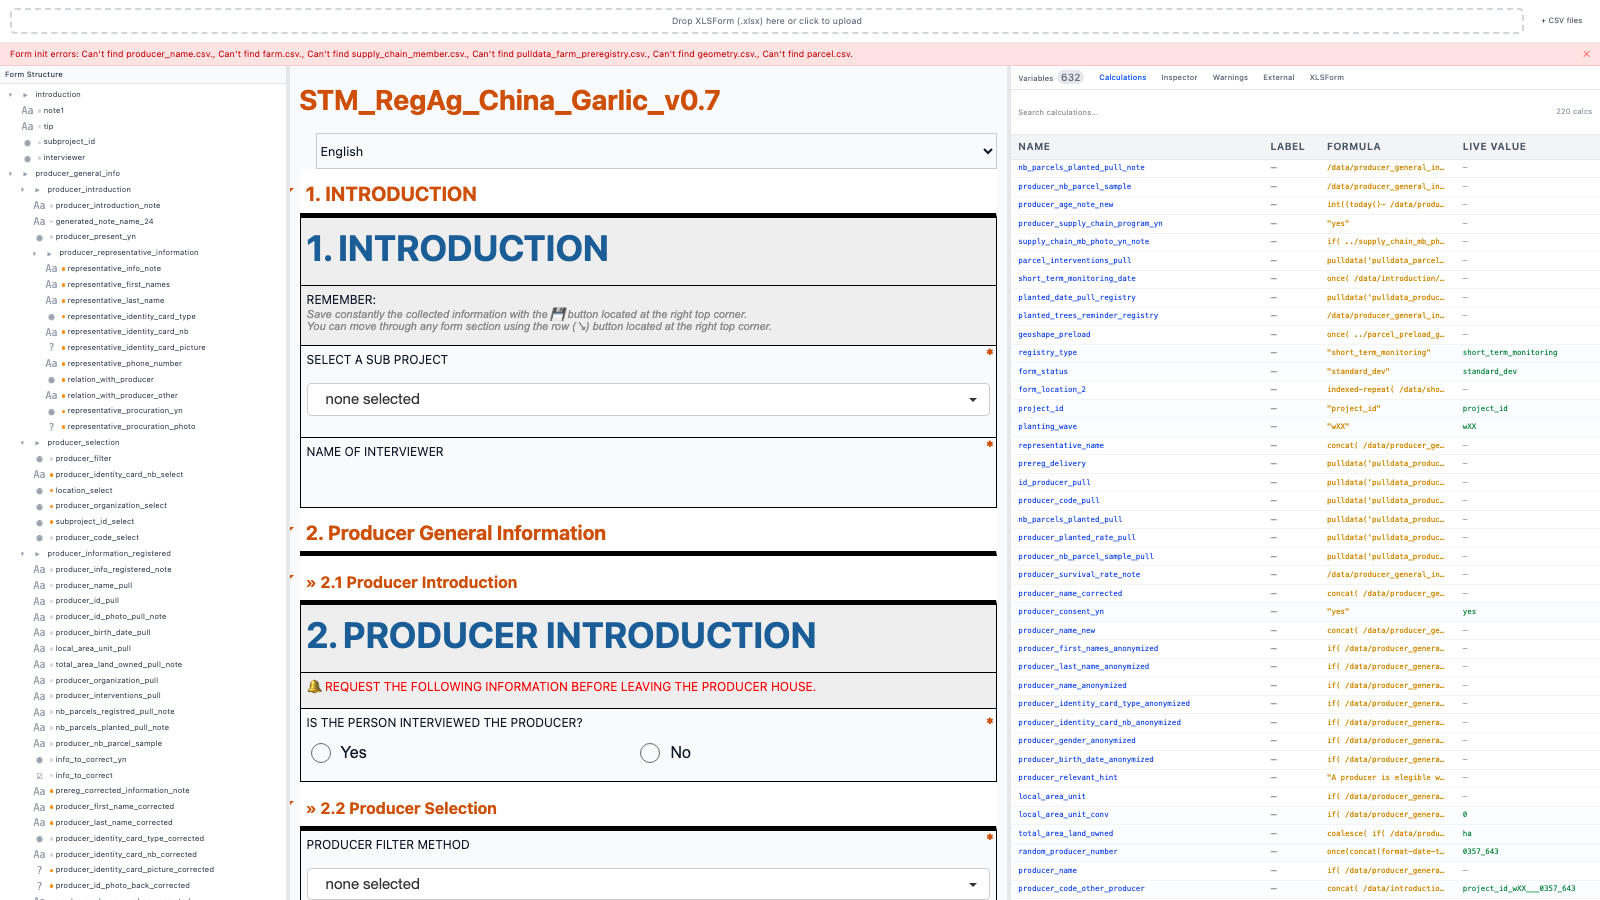
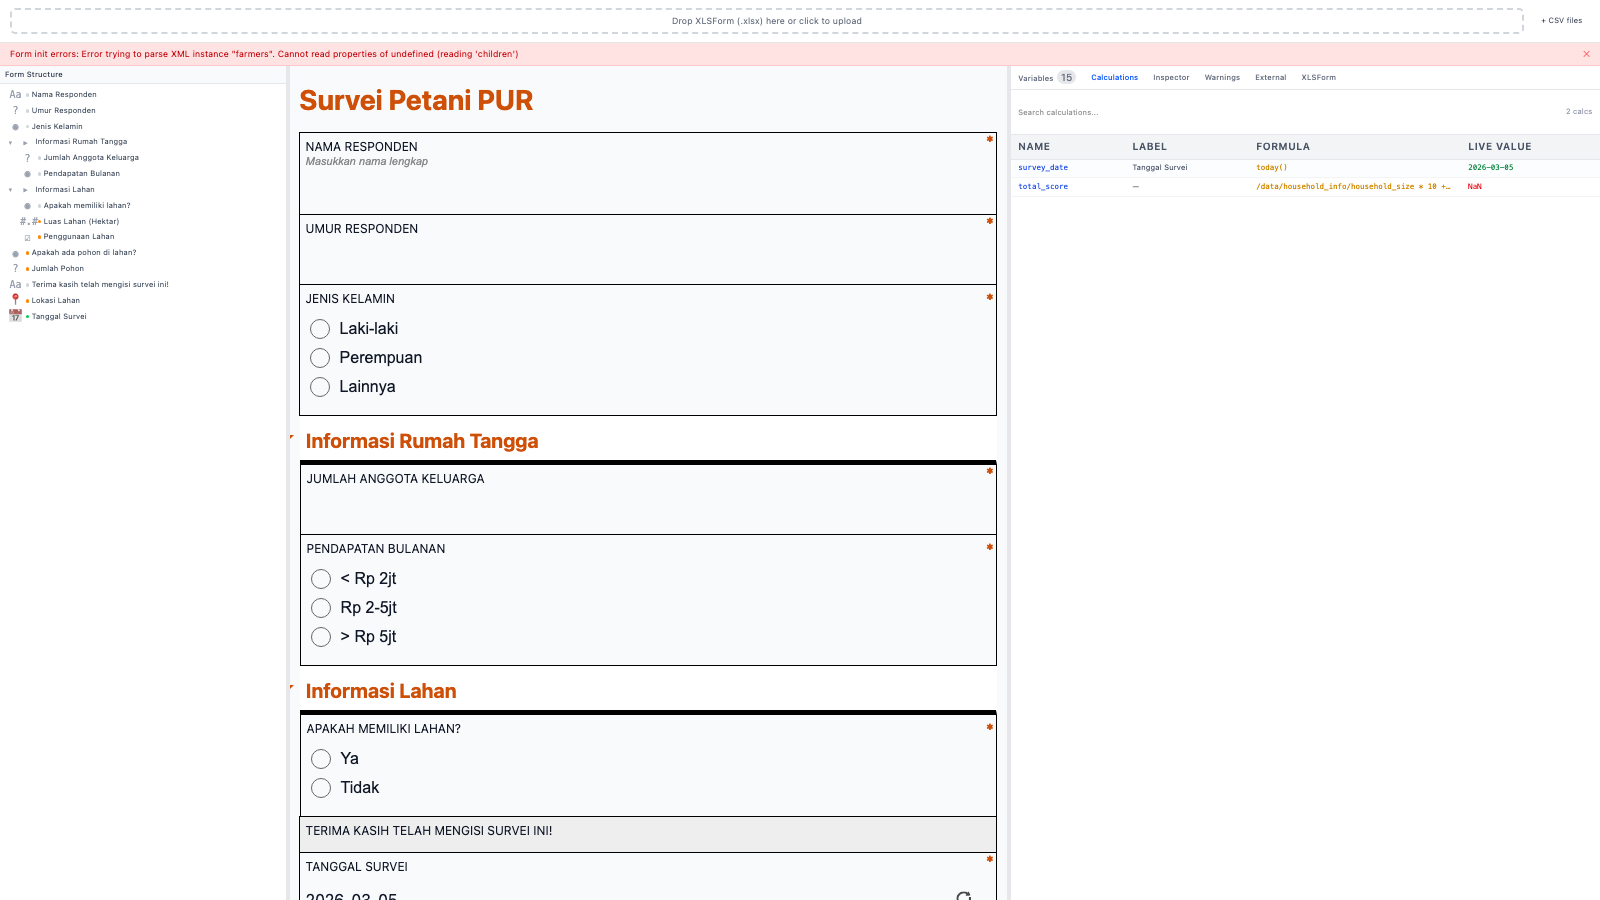
docs: PLANNING.md with geoshape roadmap, updated README with new screenshots + future improvements

diff --git a/README.md b/README.md
@@ -11,7 +11,7 @@
 
 - **Renders your form exactly as KoboToolbox would** — same engine (enketo-core), same logic
 - **Loads your pulldata CSVs** — see real values resolve in the form
-- **Live variable inspector** — all 600+ variables with current values, editable for testing
+- **Live variable inspector** — all form variables with current values, editable for testing
 - **Calculations panel** — every `calculate` field with its formula and live output
 - **Question inspector** — click any question to see its metadata, relevant/constraint evaluation, dependencies
 - **Form structure tree** — collapsible hierarchy of all groups, repeats, and questions with status indicators
@@ -22,17 +22,17 @@
 
 ## Screenshots
 
-### Form rendered alongside debug panels
+### Full overview — form rendered alongside debug panels
 ![Overview](docs/screenshot-overview.png)
 
 ### Calculations — live values for all calculated fields
 ![Calculations](docs/screenshot-calculations.png)
 
-### Inspector — click any question to inspect metadata, relevance, dependencies
+### Inspector — click any question to see metadata, relevance, and dependencies
 ![Inspector](docs/screenshot-inspector.png)
 
-### Variables — all form variables, editable for testing
-![Variables](docs/screenshot-variables.png)
+### Warnings — static analysis of your form logic
+![Warnings](docs/screenshot-warnings.png)
 
 ---
 
@@ -77,6 +77,8 @@ npm run dev
 ### 6. Open
 → **http://localhost:5173**
 
+> A sample form and pulldata CSV are in the `docs/` folder if you want to try it immediately.
+
 ---
 
 ## How to use
@@ -90,8 +92,8 @@ npm run dev
 
 | Panel | What it shows |
 |---|---|
-| **Left** | Form Structure — full group/repeat/question tree, click to scroll the form |
-| **Center** | Rendered form — interact with it as a field enumerator would |
+| **Left** | Form Structure — full group/repeat/question tree, click to scroll to any question |
+| **Center** | Rendered form — interact with it exactly as a field enumerator would |
 | **Right** | Debug tabs — Variables, Calculations, Inspector, Warnings, External Data, XLSForm source |
 
 All 3 panels are **resizable** — drag the dividers between them.
@@ -100,7 +102,7 @@ All 3 panels are **resizable** — drag the dividers between them.
 
 **Variables** — All form variables and their current values. Click any value cell to override it live (useful for testing skip logic without filling the whole form).
 
-**Calculations** — Every `calculate` field with its formula and live output. Auto-refreshes as you fill the form. Instantly see if a `pulldata()` is resolving correctly or returning NaN.
+**Calculations** — Every `calculate` field with its formula and live output. Auto-refreshes as you interact with the form. Instantly see if a `pulldata()` is resolving correctly or returning NaN.
 
 **Inspector** — Click any question in the form or the structure tree. Shows: type, label, relevant condition (✅ visible / 🚫 hidden), constraint (✅ passes / ❌ fails), current value, and which other fields depend on it.
 
@@ -123,9 +125,9 @@ All 3 panels are **resizable** — drag the dividers between them.
 
 1. Open **Inspector** tab
 2. Click the question that's not showing/hiding correctly
-3. The relevant expression is shown with live evaluation — ✅ means currently visible
+3. The relevant expression shows with live evaluation — ✅ means currently visible
 4. Click the dependency chips to jump to the fields it depends on
-5. Or use **Variables** to override a field value and watch the form re-evaluate live
+5. Use **Variables** to override a field value and watch the form re-evaluate instantly
 
 ---
 
@@ -143,9 +145,24 @@ cd app
 npm run dev -- --host
 ```
 
-Share your machine's IP: **http://192.168.x.x:5173**
+Share your machine's local IP: **http://192.168.x.x:5173**
 
 Teammates only need a browser — no installation required on their end.
+
+---
+
+## Planned improvements
+
+See [PLANNING.md](PLANNING.md) for full details.
+
+| Feature | Status |
+|---|---|
+| **Geoshape / map rendering** | Planned — next milestone. Currently shows a blank map; fix requires swapping Google Maps tiles for OpenStreetMap (no API key needed). See [PLANNING.md](PLANNING.md). |
+| Multi-language switcher | Backlog |
+| CSV data editor (inline) | Backlog |
+| Form submission XML export | Backlog |
+| Form diff (v1 vs v2) | Backlog |
+| Offline / PWA support | Backlog |
 
 ---
 
@@ -163,5 +180,5 @@ Teammates only need a browser — no installation required on their end.
 ## Notes
 
 - The renderer is **unmodified enketo-core** — no custom patches. If it works here, it works in Kobo.
-- `jr://` image URLs in form hints will show a broken image in the browser — expected, doesn't affect form logic.
-- GPS/geoshape fields render but won't capture real coordinates in a browser environment.
+- `jr://` image URLs in form hints will show a broken image warning — expected, doesn't affect form logic.
+- GPS/geoshape fields render but map tiles are currently blank (see planned improvements above).

diff --git a/PLANNING.md b/PLANNING.md
@@ -1,0 +1,111 @@
+# Development Planning
+
+## Next: Geoshape / Map Rendering
+
+### Problem
+Geopoint, geoshape, and geotrace widgets currently render as a broken map — no tiles, no draw tools.
+
+### Root Cause
+`enketo-core`'s geo widget (`geopicker.js`) depends on three map libraries:
+```js
+import L from 'leaflet';
+import 'leaflet-draw';
+import 'leaflet.gridlayer.googlemutant'; // ← stubbed to {} in vite.config.ts
+```
+
+`leaflet.gridlayer.googlemutant` requires a Google Maps API key. Rather than block the initial build on an API key, it was stubbed out with an empty export. This causes:
+1. No tile provider gets registered → blank gray map
+2. Draw tools fail to initialize → polygon/point drawing doesn't work
+3. Leaflet's default marker icons break under Vite's asset bundler
+
+`leaflet` and `leaflet-draw` themselves are bundled correctly — only the tile layer is missing.
+
+### Fix Plan
+
+**Step 1: Switch to OpenStreetMap tiles (no API key)**
+
+Override `enketo/config` to use OSM instead of Google:
+```js
+// app/node_modules/enketo-core/config.js
+maps: [{
+  tiles: 'https://{s}.tile.openstreetmap.org/{z}/{x}/{y}.png',
+  name: 'OpenStreetMap',
+  attribution: '© OpenStreetMap contributors'
+}]
+```
+Or better: expose as a Vite alias override so it survives `npm install`.
+
+**Step 2: Replace the googlemutant stub with a no-op shim**
+
+`src/stubs/empty.ts` currently exports `{}`. Replace with a minimal shim that satisfies Leaflet without crashing:
+```ts
+// Returns a dummy GridLayer so L.gridLayer.googleMutant() doesn't throw
+export default function GoogleMutant() {
+  return { addTo: () => {}, remove: () => {}, setOpacity: () => {} };
+}
+```
+
+**Step 3: Import Leaflet CSS**
+
+Add to `app/src/main.tsx`:
+```ts
+import 'leaflet/dist/leaflet.css';
+import 'leaflet-draw/dist/leaflet.draw.css';
+```
+
+**Step 4: Fix Leaflet marker icons under Vite**
+
+Standard fix — add to app entry point:
+```ts
+import L from 'leaflet';
+import markerIcon from 'leaflet/dist/images/marker-icon.png';
+import markerShadow from 'leaflet/dist/images/marker-shadow.png';
+delete (L.Icon.Default.prototype as any)._getIconUrl;
+L.Icon.Default.mergeOptions({ iconUrl: markerIcon, shadowUrl: markerShadow });
+```
+
+**Step 5: Test**
+
+Use a form with `geopoint`, `geoshape`, or `geotrace` fields. Verify:
+- Map tiles load (OSM satellite/street view)
+- Draw tools appear (polygon, polyline, point marker)
+- Coordinates save to the model and appear in the Variables panel
+
+### Files to change
+| File | Change |
+|---|---|
+| `app/src/stubs/empty.ts` | Replace `{}` with googlemutant no-op shim |
+| `app/vite.config.ts` | Add `resolve.alias` for `enketo/config` → custom config file |
+| `app/src/config/enketo-config.js` (new) | OSM tile config |
+| `app/src/main.tsx` | Add Leaflet + leaflet-draw CSS imports + marker icon fix |
+
+### Estimated effort
+2–3 hours. Most logic is in enketo-core already; this is purely wiring.
+
+---
+
+## Backlog
+
+### Offline / PWA support
+Bundle the app as a PWA so field teams can use it without internet after first load.
+- Leaflet tile caching (service worker)
+- XLSForm file stored in IndexedDB
+
+### Form submission preview
+Show what the final XML submission would look like before submitting to KoboToolbox.
+Useful for checking that calculated fields and metadata are correct.
+
+### CSV data editor
+Inline editor for pulldata CSVs — add/edit/remove rows without leaving the debugger.
+Currently you have to edit the CSV externally and re-upload.
+
+### Multi-language support
+Forms with `label::English (en)` and `label::French (fr)` etc. — add a language switcher in the debugger UI (enketo-core supports this natively via `form.langs`).
+
+### Form diff
+Compare two versions of the same form (e.g. v0.6 vs v0.7):
+- Show added/removed/changed questions
+- Highlight breaking changes (renamed fields, changed types)
+
+### Export filled form as XML
+After testing a form by filling it in the debugger, export the current model state as a valid ODK submission XML. Useful for testing your server-side processing pipeline.
